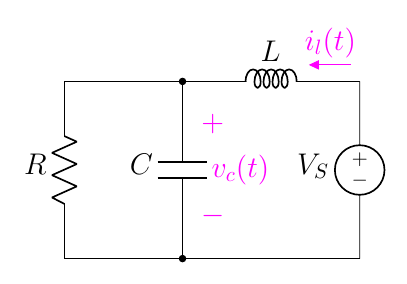
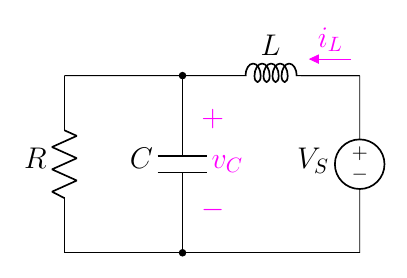
9.28

diff --git a/2.7 Critical Damping/9.3 Critical Damping/9.28-7th(new).tex b/2.7 Critical Damping/9.3 Critical Damping/9.28-7th(new).tex
@@ -25,10 +25,10 @@
     % \node at (2.2,1.5)[]{$t=0$};
 
     \draw[magenta](2.2,0.5)
-        to[open, v>=$v_c(t)$] ++(0,2);
+        to[open, v>=$v_C$] ++(0,2);
 
     \draw[circuitikz/current arrow color=magenta](5,3)
-        to[open,f>_=$\color{magenta}{i_l(t)}$] ++(-2.4,0);
+        to[open,f>_=$\color{magenta}{i_L}$] ++(-2.4,0);
 
 \end{circuitikz}
 \end{document}
